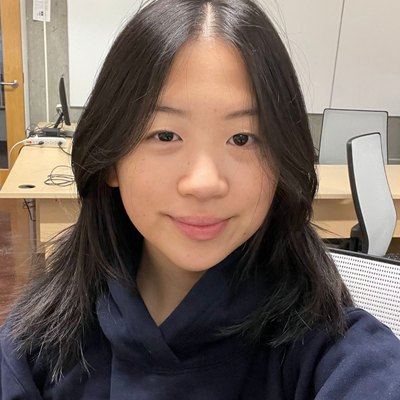
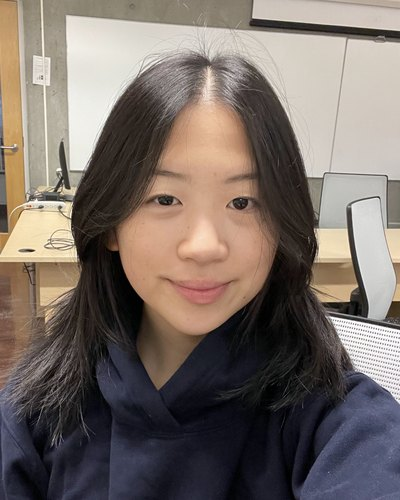
Add instructor photo and recrop team photos to portrait

diff --git a/docs/assets/css/custom.css b/docs/assets/css/custom.css
@@ -141,7 +141,9 @@ body .markdown-section {
 .markdown-section .team-card img.team-photo {
     display: block;
     width: 100%;
-    aspect-ratio: 1;
+    /* Portrait, to match the 400x500 crops: a square cut off the top of the head on
+       the closest selfies. */
+    aspect-ratio: 4 / 5;
     object-fit: cover;
     border-radius: 8px;
     /* Keeps a photo with a white background from dissolving into the page. */

diff --git a/docs/teaching-team.md b/docs/teaching-team.md
@@ -6,14 +6,23 @@
 
 | Date | Update |
 | :--: | :----- |
-| Sep 24, 2026 | Added TA photos and pronouns. |
+| Sep 24, 2026 | Added photos of the teaching team, and TA pronouns. |
 
 > [!TIP]
 > **Looking for how to reach us?** Email addresses, the Ed Discussion link, and a flowchart showing where each kind of question belongs are all on [Course Communication](communication.md).
 
 ## Instructor
 
-**Parsa Rajabi** — pronouns, office, and email are on the [syllabus](syllabus.md#course-instructor) and [Course Communication](communication.md). Drop-in hours are on the [Drop-in Hours](drop-in-hours.md) page.
+<div class="team-grid">
+  <div class="team-card">
+    <img class="team-photo" src="assets/teaching-team/parsa-rajabi.jpg" alt="Photo of Parsa Rajabi">
+    <p class="team-name">Parsa Rajabi</p>
+    <p class="team-pronouns">he/him</p>
+    <p class="team-labs"><span class="team-lab">Instructor</span></p>
+  </div>
+</div>
+
+Office and email are on the [syllabus](syllabus.md#course-instructor) and [Course Communication](communication.md). Drop-in hours are on the [Drop-in Hours](drop-in-hours.md) page.
 
 ## Teaching Assistants
 
